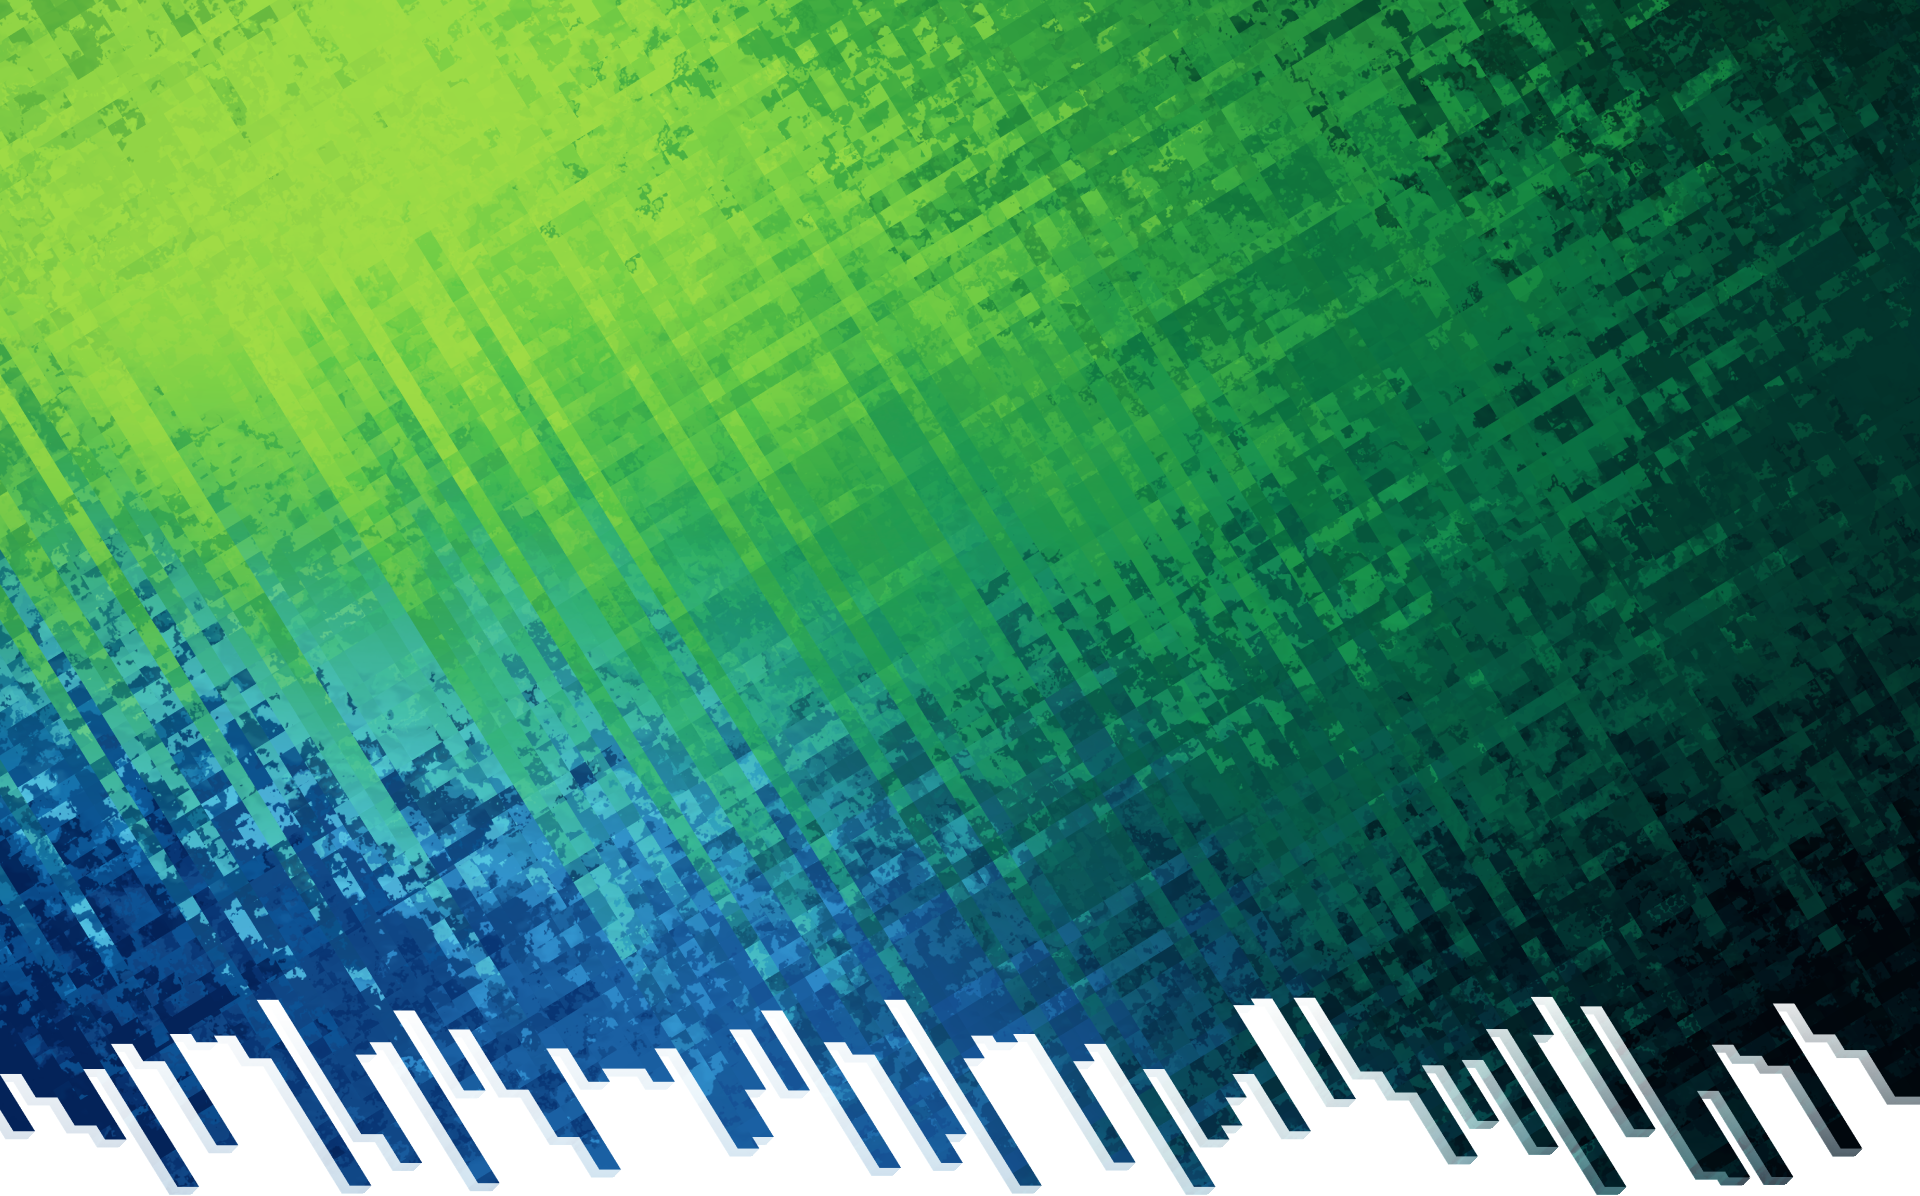
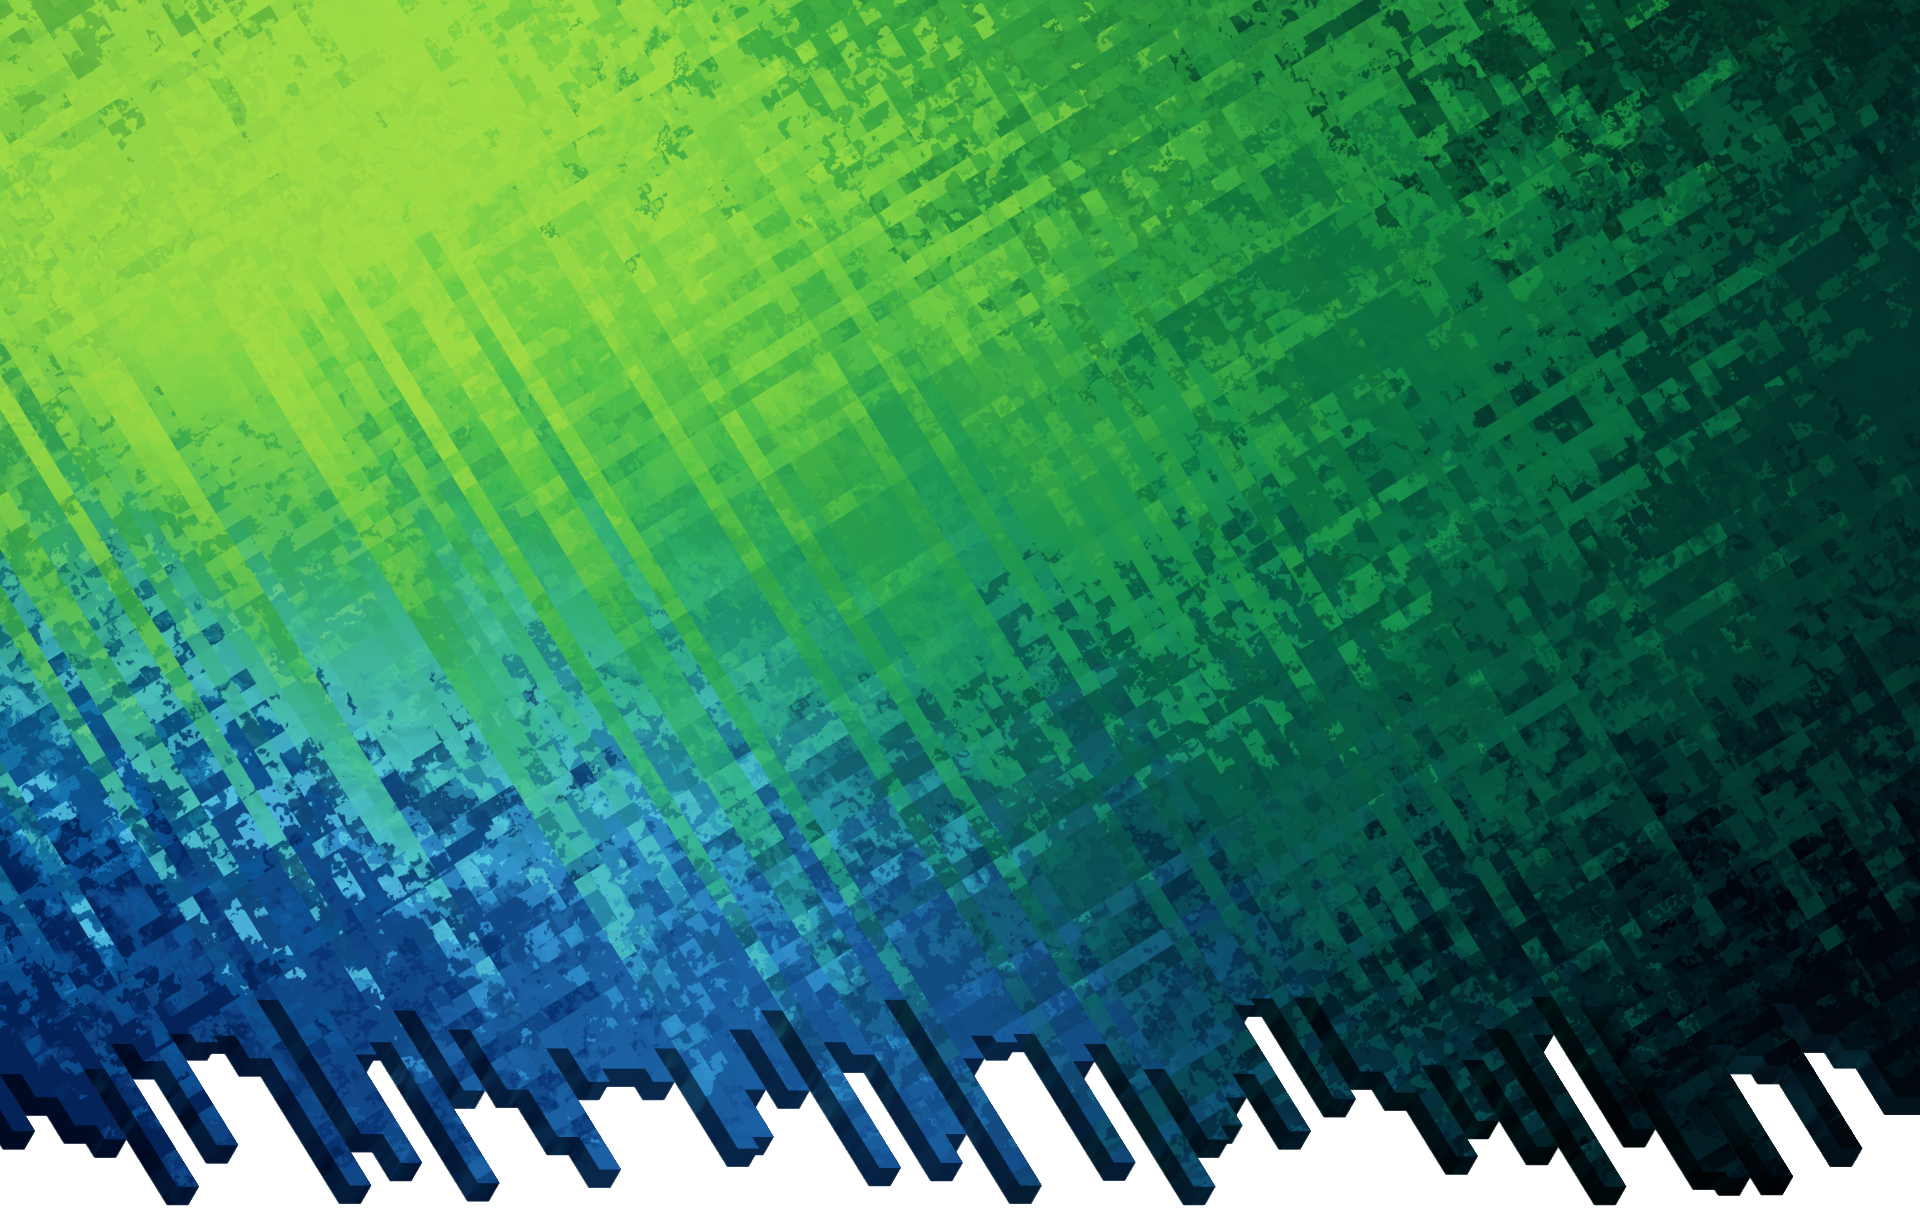
jour2

diff --git a/style.css b/style.css
@@ -1,5 +1,9 @@
 @import url('http://fonts.cdnfonts.com/css/catamaran');
 
+html {
+	scroll-behavior: smooth;
+}
+
 body{
 	font-family: 'Catamaran', sans-serif;
 	margin: 0px;
@@ -8,13 +12,14 @@ body{
 }
 
 header{
+	z-index: 1;
 	position: fixed;
 	height: 64px;
 	width: 100%;
 	display: flex;
 	justify-content: space-between;
-	background: linear-gradient(90deg, rgba(23,47,40,0.4) 0%, rgba(23,47,40,0.6) 75%, rgba(2,27,31,0.7) 100%);
-	backdrop-filter: blur(8px);
+	background: linear-gradient(90deg, rgba(27, 93, 41, 0.3) 0%, rgba(8, 25, 18, 0.3) 75%, rgba(1, 33, 15, 0.6) 100%);
+	backdrop-filter: blur(16px);
 }
 
 header div{
@@ -23,7 +28,14 @@ header div{
 }
 
 main{
-	height: 4300px;
+	height: 2000px;
+}
+
+footer{
+	background-image: url("./img/footer_lines.png");
+	background-position: center top;
+	background-size: 100%;
+	background-repeat: no-repeat;
 }
 
 #nav_container{
@@ -35,13 +47,53 @@ main{
 }
 
 #nav_container li{
-	margin: 10px 22px;
+	display: flex;
+	flex-direction: column;
+	flex-wrap: nowrap;
+	margin: 0px 16px;
 }
 
 #nav_container li a{
+	margin-top: 8px;
+	display: flex;
 	color: #E7E7E7;
 	text-decoration: none;
 	font-size: 28px;
+}
+
+#nav_container li div{
+	visibility: hidden;
+	background-color: #FDFDFD;
+	height: 2px;
+}
+
+#nav_container li:hover > div{
+	visibility: visible;
+}
+
+#nav_container li:active > a img:nth-child(1){
+	padding-top: 5px;
+}
+
+#nav_container li a img{
+	height: 32px;
+	padding-top: 7px;
+	padding-right: 6px;
+}
+
+#nav_container li h1{
+	z-index: -1;
+	margin-left: 40px;
+	margin-top: 12px;
+	font-size: 28px;
+	position: absolute;
+	font-weight: 400;
+	-webkit-text-fill-color: rgba(0, 0, 0, 0.6);
+	filter: blur(2px);
+}
+
+#main_logo{
+	padding-left: 4px;
 }
 
 #main_logo:hover{
@@ -74,25 +126,76 @@ main{
 }
 
 #welcome_text{
+	z-index: 0;
 	height:inherit;
 	margin: 0vw 5vw 0vw 1.5vw;
 	font-size: 2vw;
 	font-weight: 400;
+	/* backdrop-filter: blur(16px); */
 }
 
-#contact{
+#ctc{
+	margin-left: 6vw;
+	margin-bottom: 6vw;
+	padding-top: 5vw;
 	display: flex;
 	justify-content: flex-start;
 }
 
+#ctc div{
+	margin: 0vw 2vw;
+}
+
+#ctc div h2{
+	margin: 8vw 0vw 0vw 0vw;
+	font-size: 18px;
+	font-weight: 600;
+}
+
+#ctc div a{
+	text-decoration: none;
+	font-size: 18px;
+	font-weight: 500;
+	-webkit-background-clip: text;
+	-webkit-text-fill-color: transparent;
+}
+
+#ctc1{background: linear-gradient(to right, #9FDB45 0%, #95D746 100%);}
+#ctc2{background: linear-gradient(to right, #95D746 0%, #85D047 100%);}
+#ctc3{background: linear-gradient(to right, #85D047 0%, #77CB48 100%);}
+#ctc4{background: linear-gradient(to right, #77CB48 0%, #69C44B 100%);}
+#ctc5{background: linear-gradient(to right, #69C44B 0%, #5ABF4B 100%);}
+
+
 #info{
 	display: flex;
 	justify-content: space-between;
+	padding: 2px 10px;
+	background-color: #151B24;
+}
+
+#info a, #info div{
+	font-size: 18px;
+	color: #475253;
+}
+
+#info a:hover{
+	background: linear-gradient(to bottom, #CCFFFA 0%, #5EC9FF 90%);
+	-webkit-background-clip: text;
+	-webkit-text-fill-color: transparent;
+}
+
+.shadow{
+	z-index: -1;
+	margin-top: 4px;
+	position: absolute;
 }
 
 .text{
-	text-shadow: 1px 1px 0 #929597, 2px 2px 0 #636768, 3px 3px 0 #576062, 4px 4px 5px rgba(0, 0, 0, 0.4);
-	font-weight: 600;
+	background: linear-gradient(to bottom, #FFFFFF 0%, #C9CAC9 100%);
+	font-weight: 400;
+	-webkit-background-clip: text;
+	-webkit-text-fill-color: transparent;
 }
 
 .fr_flag:hover{

diff --git a/index.html b/index.html
@@ -9,14 +9,54 @@
 	<link rel="stylesheet" href="style.css">
 </head>
 <body>
+	<img src="./img/lg_logo_sel.png" style="display:none;" alt="" />
+	<img src="./img/lg_logo_act.png" style="display:none;" alt="" />
+	<img src="./img/lang/fr_flag_act.png" style="display:none;" alt="" />
+	<img src="./img/lang/en_flag_sel.png" style="display:none;" alt="" />
+	<img src="./img/lang/en_flag_act.png" style="display:none;" alt="" />
+	<img src="./img/lang/es_flag_sel.png" style="display:none;" alt="" />
+	<img src="./img/lang/es_flag_act.png" style="display:none;" alt="" />
 	<div id="page">
 		<header>
 			<div>
 				<a href="#page"><img id="main_logo" src="./img/lg_logo.png" alt="lg_logo"></a>
 				<ul id="nav_container" class="text">
-					<li><a href="#gr">Réalisations graphiques</a></li>
-					<li><a href="#yt">YouTube</a></li>
-					<li><a href="#mc">Minecraft</a></li>
+					<li>
+						<h1>Réalisations graphiques</h1>
+						<div class="selbar"></div>
+						<a href="#gr">
+							<img src="./img/navbar/gr_icon.png" alt="gr_icon">
+							<img class="shadow" src="./img/navbar/shadow.png" alt="shadow">
+							Réalisations graphiques
+						</a>
+					</li>
+					<li>
+						<h1>YouTube</h1>
+						<div class="selbar"></div>
+						<a href="#yt">
+							<img src="./img/navbar/yt_icon.png" alt="yt_icon">
+							<img class="shadow" src="./img/navbar/shadow.png" alt="shadow">
+							YouTube
+						</a>
+					</li>
+					<li>
+						<h1>Minecraft</h1>
+						<div class="selbar"></div>
+						<a href="#mc">
+							<img src="./img/navbar/mc_icon.png" alt="mc_icon">
+							<img class="shadow" src="./img/navbar/shadow.png" alt="shadow">
+							Minecraft
+						</a>
+					</li>
+					<li>
+						<h1>Contact</h1>
+						<div class="selbar"></div>
+						<a href="#ctc">
+							<img src="./img/navbar/ctc_icon.png" alt="ctc_icon">
+							<img class="shadow" src="./img/navbar/shadow.png" alt="shadow">
+							Contact
+						</a>
+					</li>
 				</ul>
 			</div>
 			<div>
@@ -32,7 +72,9 @@
 						<img id="lerog_logo" src="./img/Lerog.png" alt="lerog_logo">
 					</div>
 					<div id="welcome_text">
-						<p class="text">Lorem ipsum dolor sit amet, consectetur adipiscing elit. Duis et nibh eu sapien mattis pulvinar. Integer tristique diam eget dui gravida ullamcorper. Quisque quis elit egestas risus iaculis mattis. Nunc malesuada volutpat molestie. Pellentesque habitant morbi tristique.</p>
+						<p class="text">
+							Hey ! Je suis étudiant en informatique
+						</p>
 					</div>
 				</div>
 			</div>
@@ -47,22 +89,26 @@
 			</div>
 		</main>
 		<footer>
-			<div id="contact">
+			<div id="ctc">
 				<div>
 					<h2>EMAIL</h2>
-					<a href="">lerog [at] outlook.fr</a>
+					<a id="ctc1" href="mailto:lerog@outlook.fr">Lerog@outlook.fr</a>
+				</div>
+				<div>
+					<h2>DISCORD</h2>
+					<a id="ctc2" href="https://discord.com" target="_blank">Lérog#9244</a>
 				</div>
 				<div>
 					<h2>YOUTUBE</h2>
-					<a href="">Lérog</a>
+					<a id="ctc3" href="https://www.youtube.com/channel/UC87g7dcK1-mDuZWd7ku-fbw" target="_blank">Lérog</a>
 				</div>
 				<div>
 					<h2>TWITTER</h2>
-					<a href="">@LerogFR</a>
+					<a id="ctc4" href="https://twitter.com/LerogFR" target="_blank">@LerogFR</a>
 				</div>
 				<div>
 					<h2>GITHUB</h2>
-					<a href="">LerogFR</a>
+					<a id="ctc5" href="https://github.com/LerogFR" target="_blank">LerogFR</a>
 				</div>
 			</div>
 			<div id="info">
